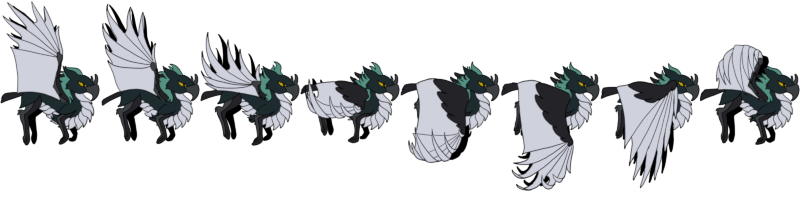
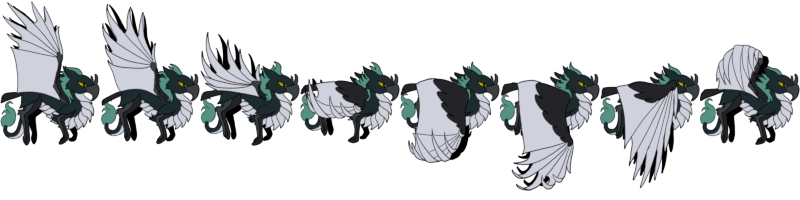
quick and dirty adding of the tail for flying and gliding animations for now

diff --git a/flyingGame-main.js b/flyingGame-main.js
@@ -24,8 +24,8 @@ var playerImgs = [], bgImgs = [], uiImgs = [], enemyImgs = [], projectileImgs = 
 var playerImgIndex = {
 		IDLE : 0,
 		WALK : 1,
-		FLYBODY: 2,
-		GLIDEBODY: 3,
+		FLY: 2,
+		GLIDE: 3,
 	};
 
 var enemyImgIndex = {
@@ -185,10 +185,8 @@ function loadGame() {
 	// PLAYER SPRITES
 	loading.push(loadImages(playerImgs, "imgs/player/idle.png"));
 	loading.push(loadImages(playerImgs, "imgs/player/walk.png"));
-	loading.push(loadImages(playerImgs, "imgs/player/flyBody.png"));
-	// flytail
-	loading.push(loadImages(playerImgs, "imgs/player/glideBody.png"));
-	// glidetail
+	loading.push(loadImages(playerImgs, "imgs/player/fly.png"));
+	loading.push(loadImages(playerImgs, "imgs/player/glide.png"));
 	
 	// ENEMY SPRITES
 	loading.push(loadImages(enemyImgs, "imgs/enemies/pipo/idle.png"));
@@ -720,11 +718,11 @@ function playerSprite(width, height, img, x, y) {
 			this.maxFrames = 27;
 			break;
 		case playerState.Flying:
-			this.image.src = playerImgs[playerImgIndex.FLYBODY].src;
+			this.image.src = playerImgs[playerImgIndex.FLY].src;
 			this.maxFrames = 8;
 			break;
 		case playerState.Gliding:
-			this.image.src = playerImgs[playerImgIndex.GLIDEBODY].src;
+			this.image.src = playerImgs[playerImgIndex.GLIDE].src;
 			this.maxFrames = 1;
 			break;
 		case playerState.Falling:
@@ -737,7 +735,7 @@ function playerSprite(width, height, img, x, y) {
 			break;
 		}
 		if (this.invincible == 0 || (this.invincible % 10 >= 0 && this.invincible % 10 < 5)) {
-			if (player.state == playerState.Flying || player.state == playerState.Gliding) {
+			if (player.state == playerState.Flying) {
 				drawSprite(this, this.image, 100, 200, this.width, 165, this.maxFrames);
 			}
 			else {
